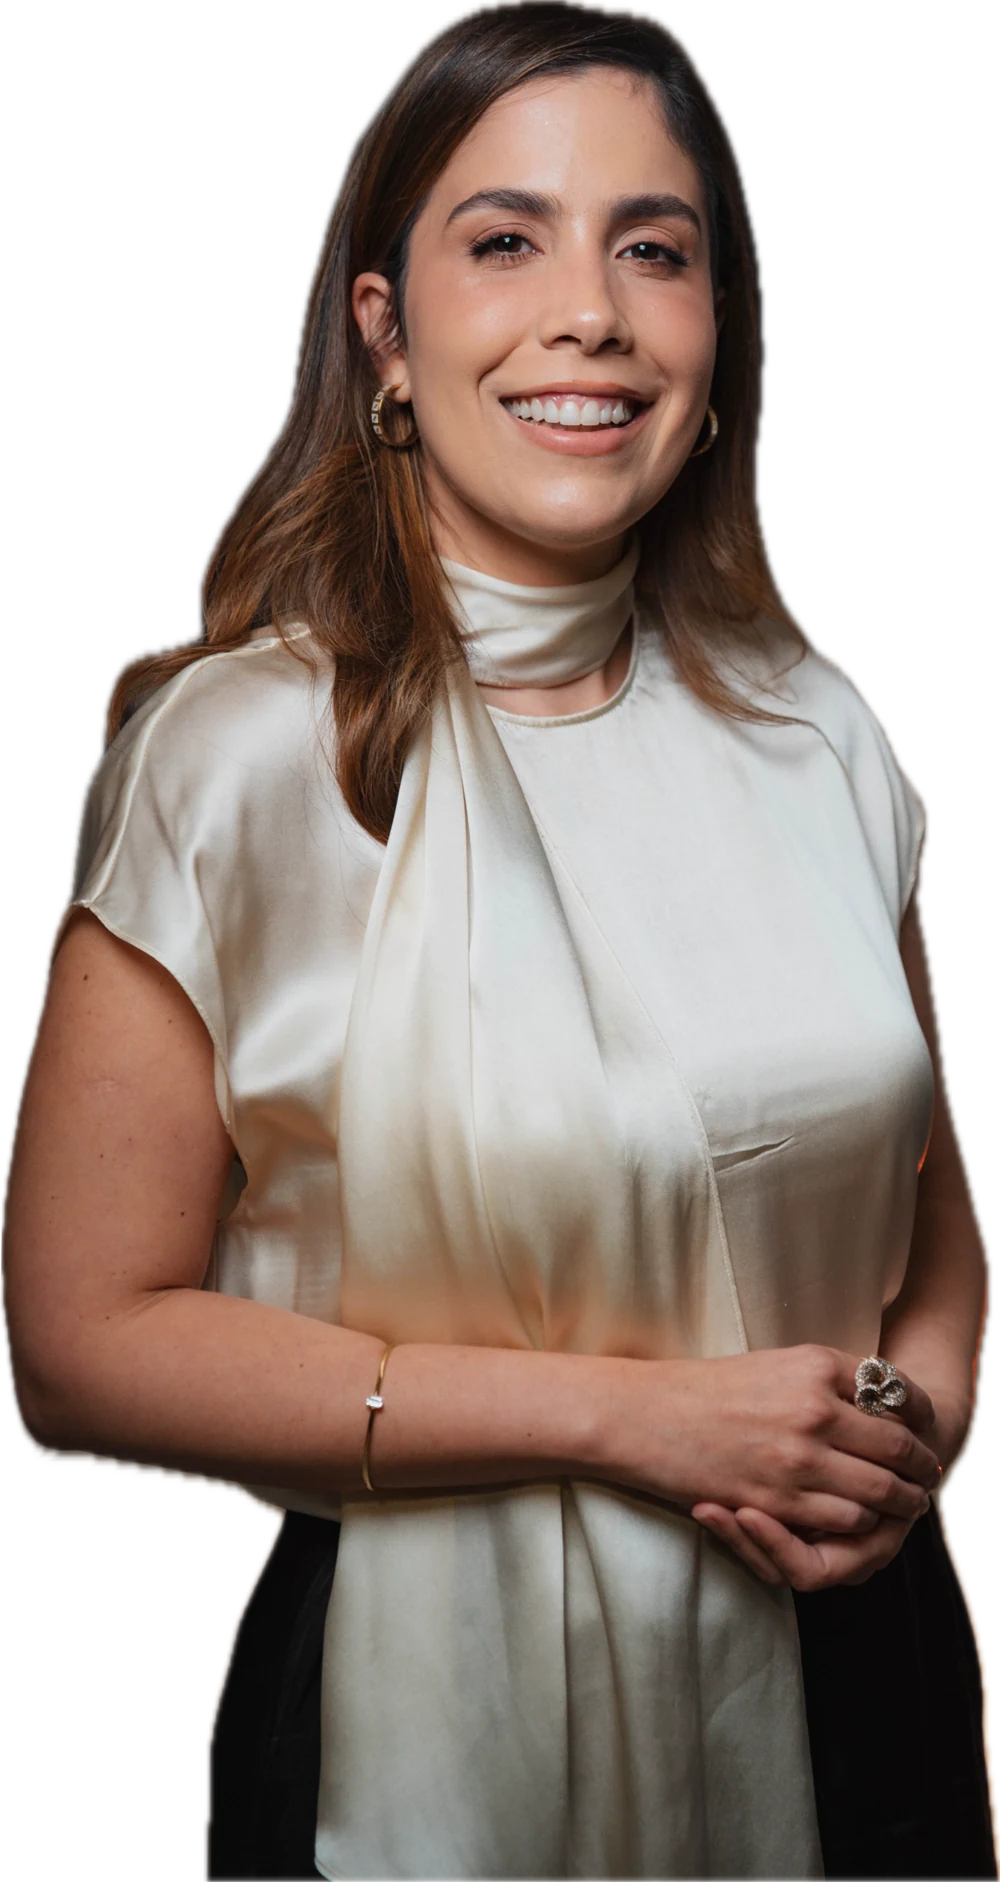
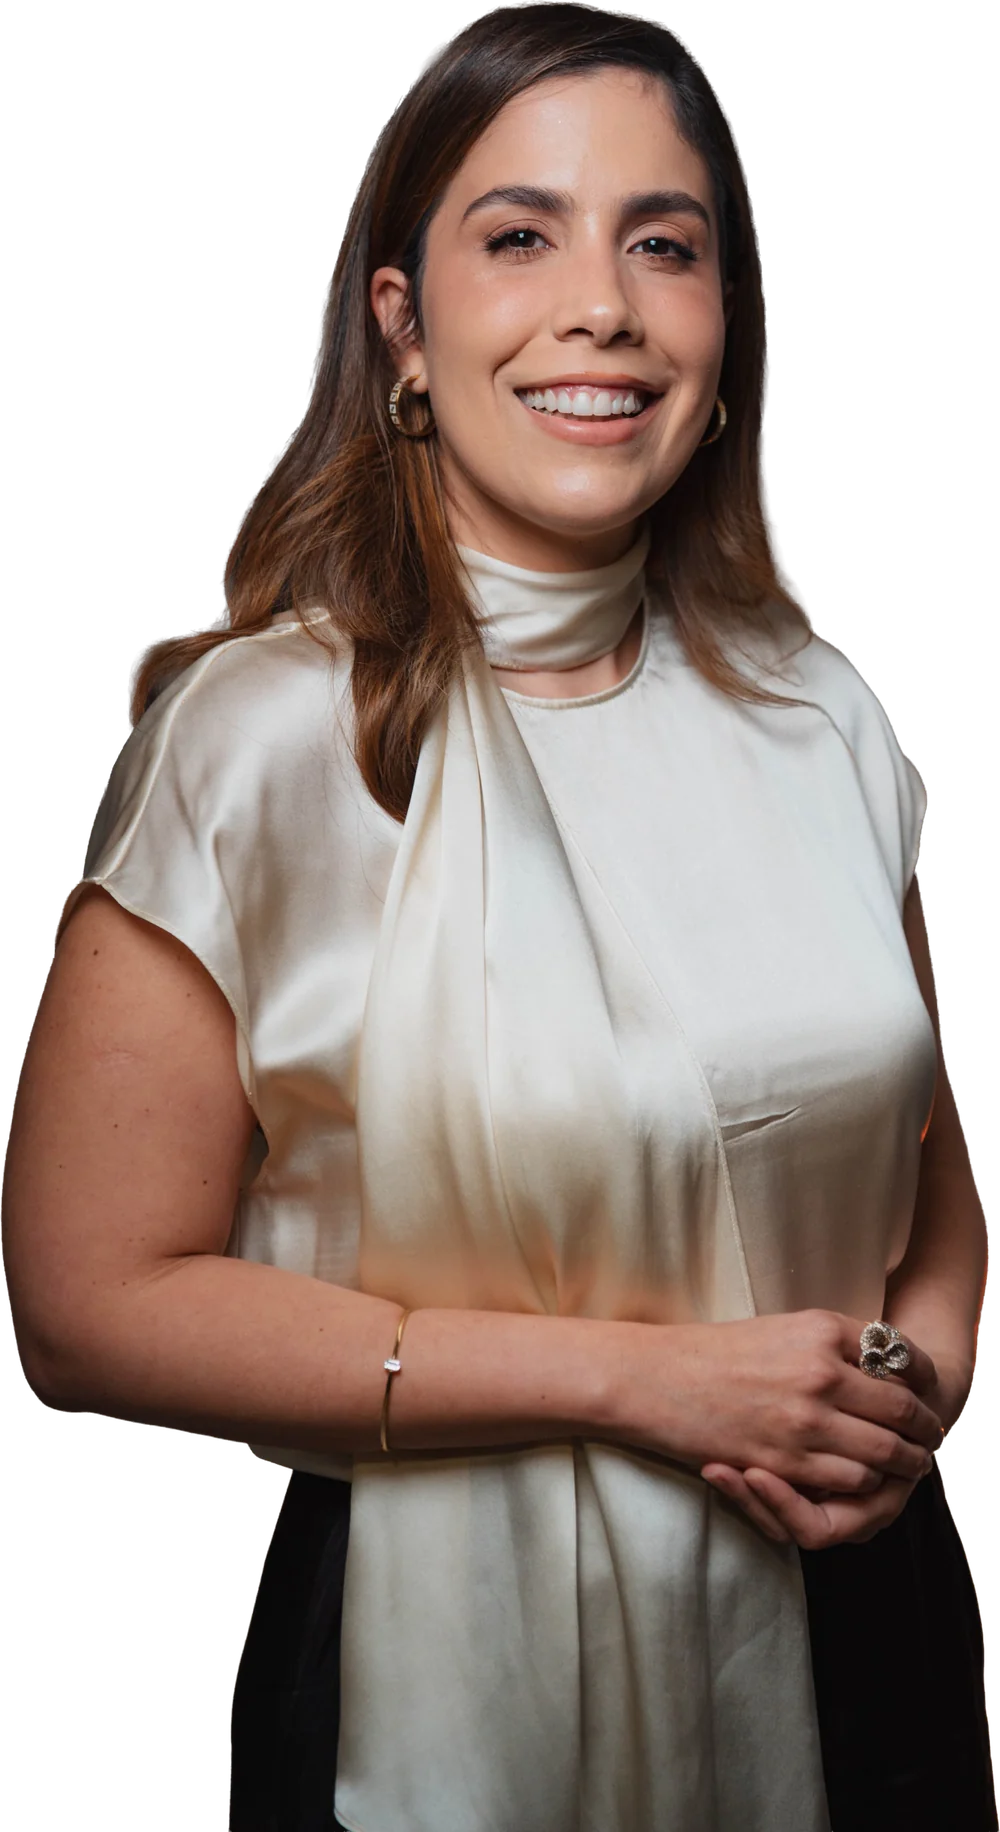
Fotos novas, mais suaves
Claude-Session: https://claude.ai/code/session_018RbNoWRgGZcqUVHyKMRb1i

diff --git a/index.html b/index.html
@@ -287,7 +287,7 @@
           </div>
         </div>
         <div class="hero-figure">
-          <img src="img/luenna-recorte.webp" alt="Luenna, de blusa de seda creme, sorrindo" width="1000" height="1882">
+          <img src="img/luenna-recorte.webp" alt="Luenna, de blusa de seda creme, sorrindo" width="1000" height="1832">
         </div>
       </section>
     </div>
@@ -303,7 +303,7 @@
       </div>
       <div class="two">
         <div class="about-photo">
-          <img src="img/luenna-rosto-recorte.webp" alt="Retrato de Luenna" width="1000" height="1275">
+          <img src="img/luenna-rosto-recorte.webp" alt="Retrato de Luenna" width="1000" height="1284">
         </div>
         <div>
           <h2>Oi. Sou empresária, chef de cozinha e piauiense.</h2>
